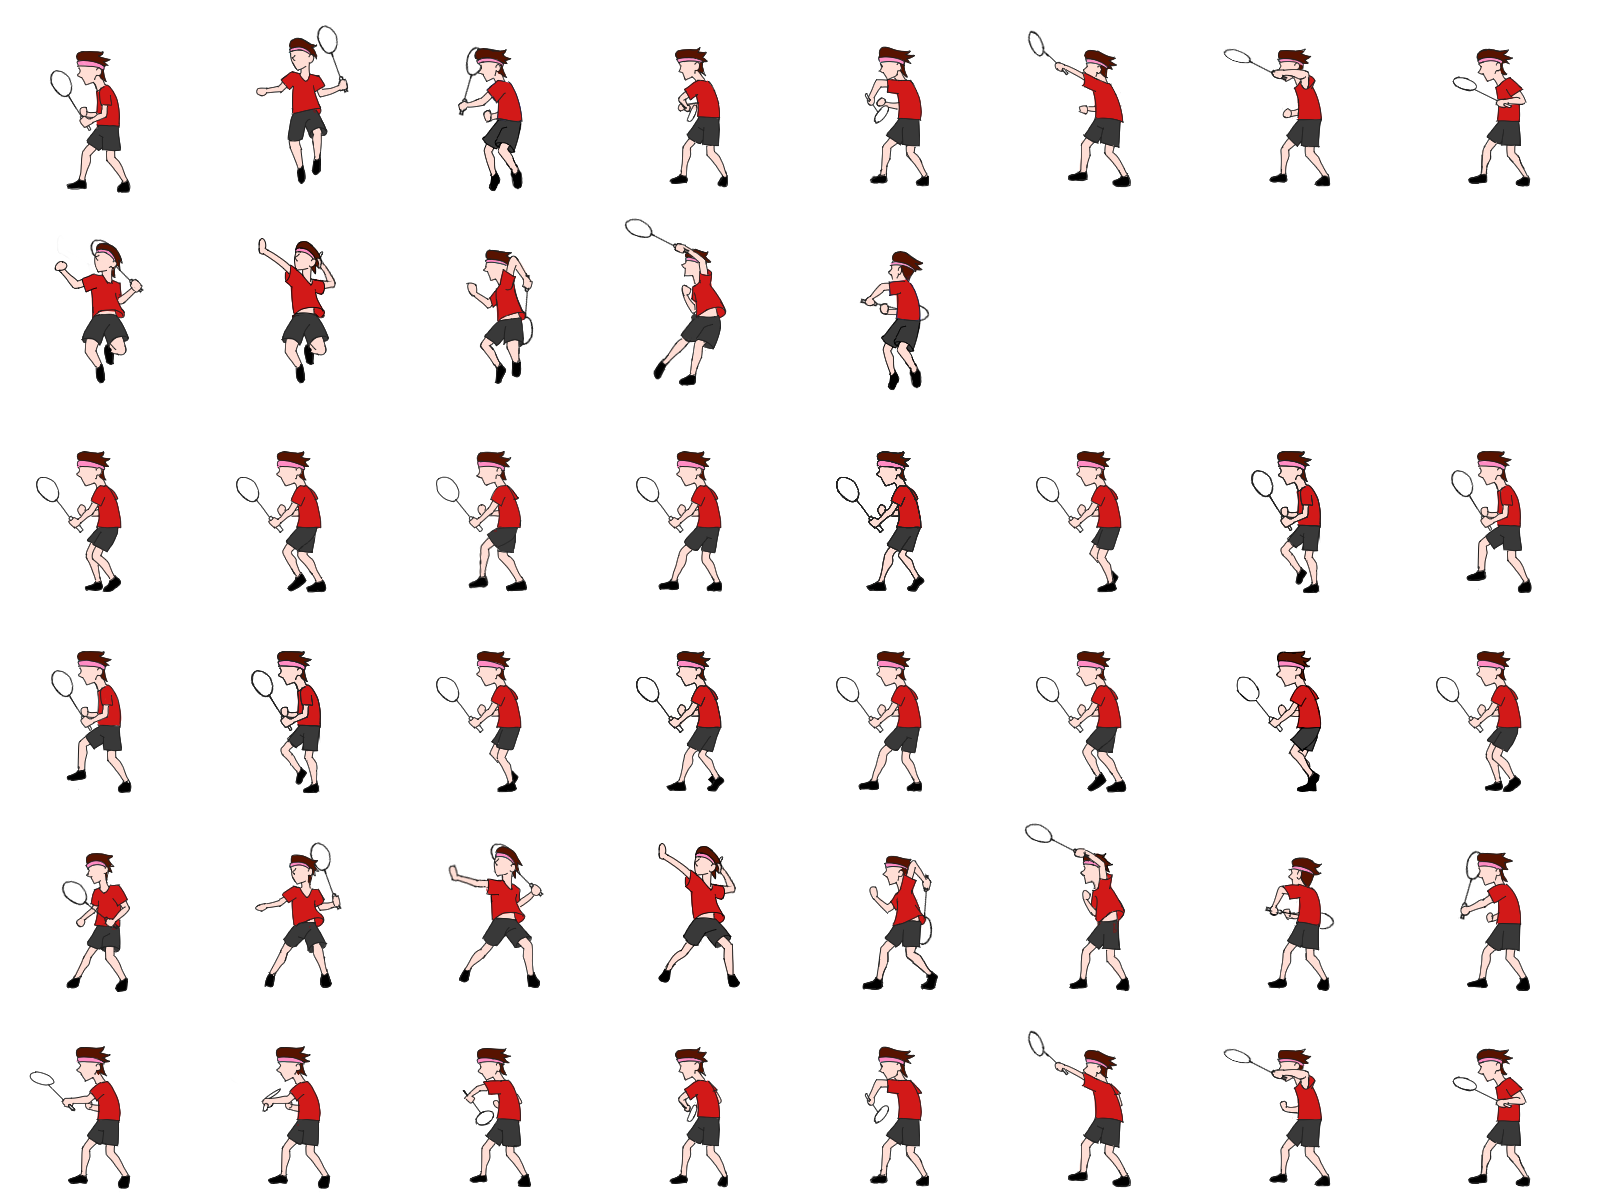
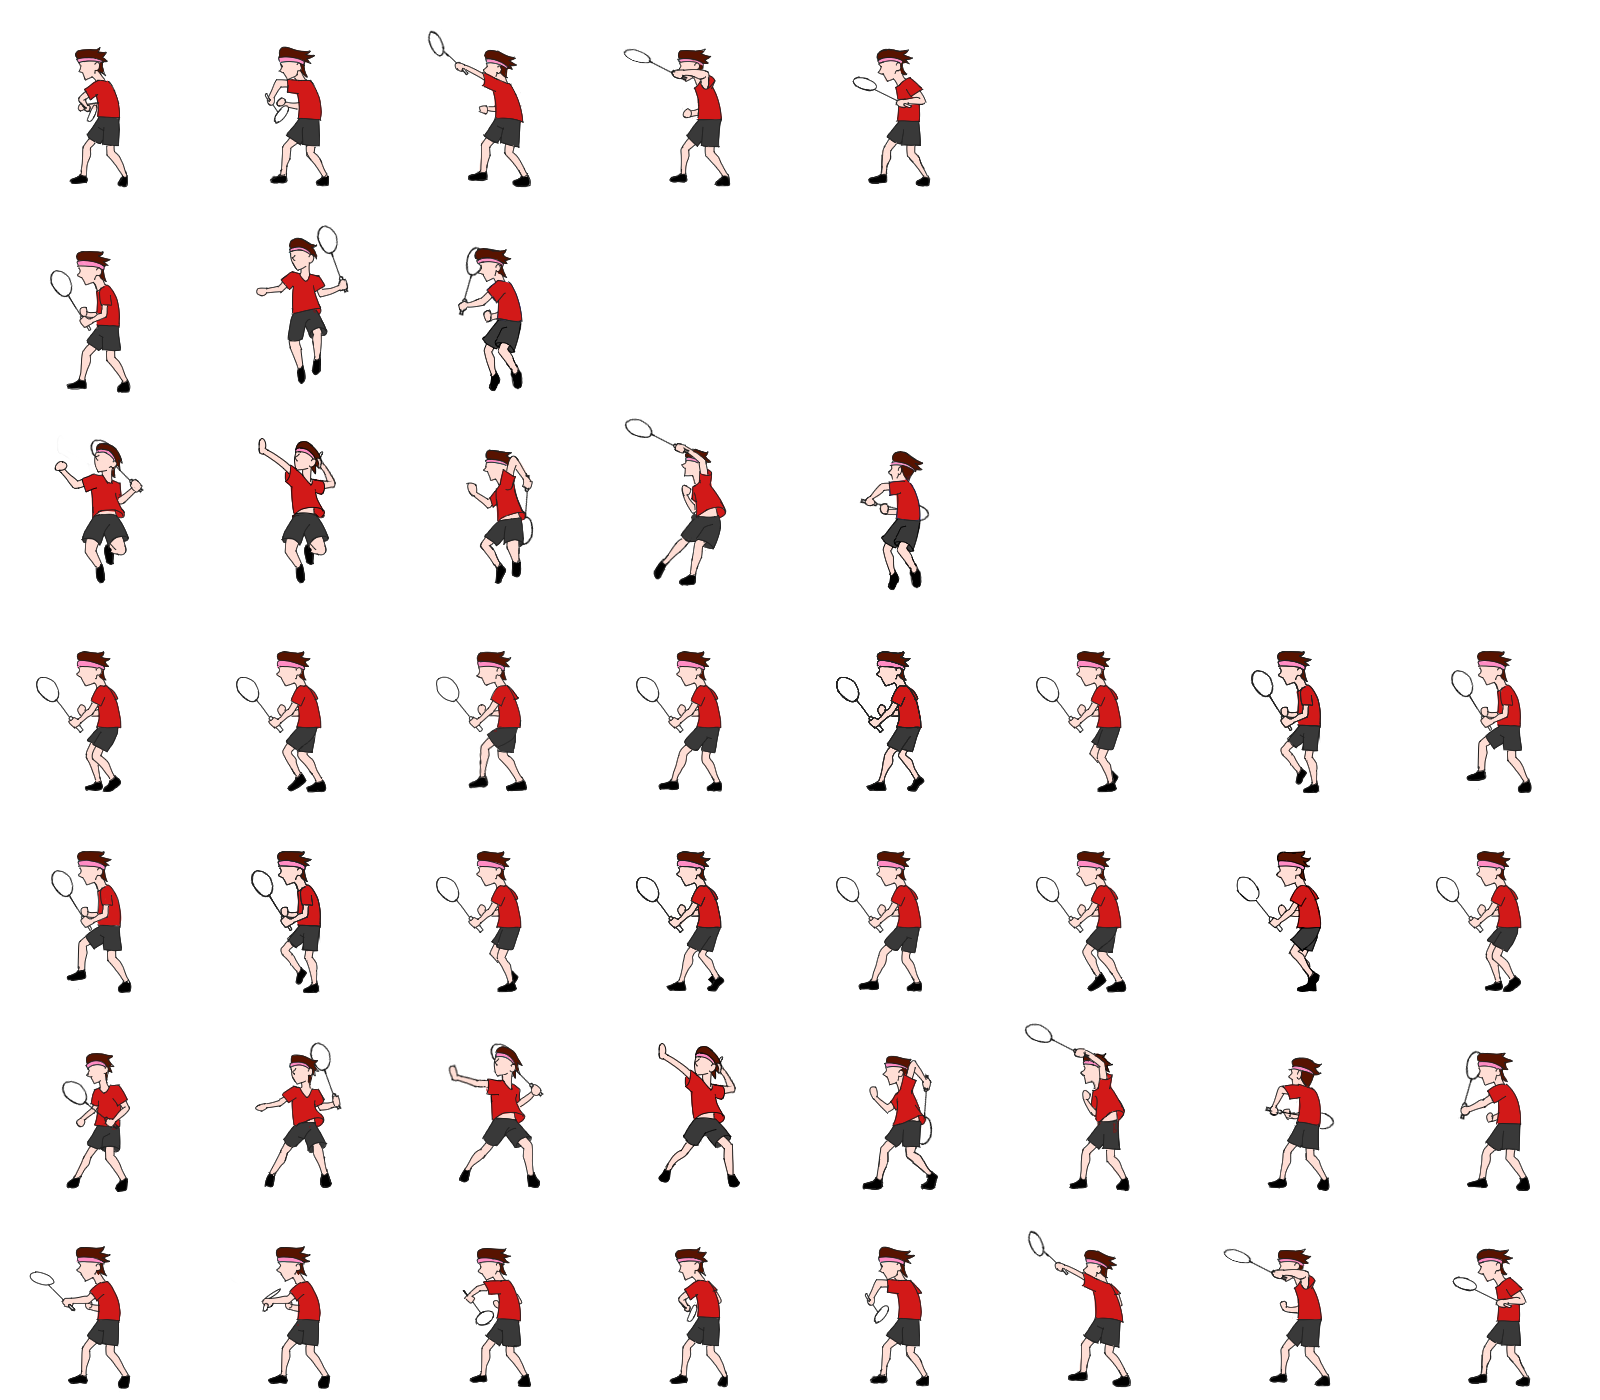
# 플레이어 프레임 재생 조정 o # 점프키 위쪽 방향키로 변경 o # 게임 방법 설명 추가  o

diff --git a/player.py b/player.py
@@ -35,11 +35,11 @@ def shift_down(e):
     return e[0] == 'INPUT' and e[1].type == SDL_KEYDOWN and e[1].key == SDLK_LSHIFT
 
 # 점프 이벤트
-def space_down(e):
-    return e[0] == 'INPUT' and e[1].type == SDL_KEYDOWN and e[1].key == SDLK_SPACE
+def up_down(e):
+    return e[0] == 'INPUT' and e[1].type == SDL_KEYDOWN and e[1].key == SDLK_UP
 
-def space_up(e):
-    return e[0] == 'INPUT' and e[1].type == SDL_KEYUP and e[1].key == SDLK_SPACE
+def up_up(e):
+    return e[0] == 'INPUT' and e[1].type == SDL_KEYUP and e[1].key == SDLK_UP
 
 # time over
 def time_out(e):
@@ -59,9 +59,10 @@ JUMP_SPEED_MPS = (JUMP_SPEED_MPM / 60.0)
 JUMP_SPEED_PPS = (JUMP_SPEED_MPS * PIXEL_PER_METER)
 
 # Player Action Speed
-TIME_PER_ACTION = 1.0
+TIME_PER_ACTION = 0.5
 ACTION_PER_TIME = 1.0 / TIME_PER_ACTION
 FRAMES_PER_ACTION = 8
+
 
 def can_hit(player):
     if play_mode.cock.x < 600:
@@ -76,9 +77,9 @@ def can_hit(player):
 class Wait:
     @staticmethod
     def enter(player, e):
-        if player.face_dir == -1: # 왼쪽
-            player.action = 5
-        elif player.face_dir == 1: # 오른쪽
+        if play_mode.who_sub == 'player':
+            player.action = 6
+        else:
             player.action = 5
         player.dir = 0
         player.frame = 0
@@ -107,7 +108,8 @@ class Run:
             player.dir, player.action, player.face_dir = 1, 3, 1
         elif left_down(e) or right_up(e):
             player.dir, player.action, player.face_dir = -1, 2, -1
-            pass
+        player.frame = 0
+        pass
 
     @staticmethod
     def exit(player, e):
@@ -134,13 +136,13 @@ class Swing_short:
     @staticmethod
     def enter(player, e):
         if play_mode.who_sub == 'player':
-            player.action = 5
+            player.action = 6
         else:
             if play_mode.cock.y < 120:
                 player.action = 0 # 언더 스윙
             else:
                 player.action = 1 # 하이 스윙
-
+        player.frame = 0
         player.motion_time = time.time()
 
         if can_hit(player):
@@ -151,20 +153,25 @@ class Swing_short:
 
     @staticmethod
     def exit(player, e):
+        if play_mode.who_sub == 'player':
+            play_mode.who_sub = None
         pass
 
     @staticmethod
     def do(player):
         if play_mode.who_sub == 'player':
-            player.frame = (player.frame + FRAMES_PER_ACTION * ACTION_PER_TIME * game_framework.frame_time) % 3 + 4
+            player.frame = (player.frame + FRAMES_PER_ACTION * ACTION_PER_TIME * game_framework.frame_time) % 5
         else:
             player.frame = (player.frame + FRAMES_PER_ACTION * ACTION_PER_TIME * game_framework.frame_time) % 8
         if can_hit(player):
-            play_mode.who_sub = None
             play_mode.cock.state = 'SHORT'
 
-        if time.time() - player.motion_time > 0.4:
-            player.state_machine.handle_event(('TIME_OUT', 0))
+        if play_mode.who_sub == 'player':
+            if time.time() - player.motion_time > 0.3:
+                player.state_machine.handle_event(('TIME_OUT', 0))
+        else:
+            if time.time() - player.motion_time > 0.5:
+                player.state_machine.handle_event(('TIME_OUT', 0))
 
         pass
 
@@ -180,12 +187,13 @@ class Swing_long:
     @staticmethod
     def enter(player, e):
         if play_mode.who_sub == 'player':
-            player.action = 5
+            player.action = 6
         else:
             if play_mode.cock.y < 90:
                 player.action = 0 # 언더 스윙
             else:
                 player.action = 1 # 하이 스윙
+        player.frame = 0
 
         if can_hit(player):
             play_mode.cock.current_time = time.time()
@@ -197,25 +205,26 @@ class Swing_long:
 
     @staticmethod
     def exit(player, e):
+        if play_mode.who_sub == 'player':
+            play_mode.who_sub = None
         pass
 
     @staticmethod
     def do(player):
         if play_mode.who_sub == 'player':
-            player.frame = (player.frame + FRAMES_PER_ACTION * ACTION_PER_TIME * game_framework.frame_time) % 3 + 4
+            player.frame = (player.frame + FRAMES_PER_ACTION * ACTION_PER_TIME * game_framework.frame_time) % 5
         else:
             player.frame = (player.frame + FRAMES_PER_ACTION * ACTION_PER_TIME * game_framework.frame_time) % 8
 
         if can_hit(player):
-            play_mode.who_sub = None
             play_mode.cock.state = 'LONG'
 
-        if time.time() - player.motion_time > 0.4:
-            player.state_machine.handle_event(('TIME_OUT', 0))
-
-
-        pass
-
+        if play_mode.who_sub == 'player':
+            if time.time() - player.motion_time > 0.3:
+                player.state_machine.handle_event(('TIME_OUT', 0))
+        else:
+            if time.time() - player.motion_time > 0.5:
+                player.state_machine.handle_event(('TIME_OUT', 0))
     @staticmethod
     def draw(player):
         player.image.clip_draw(int(player.frame) * 200, player.action * 200, 200, 200, player.x, player.y, 250, 250)
@@ -229,12 +238,12 @@ class Smash:
     def enter(player, e):
         player.action = 1 # 하이
         player.motion_time = time.time()
+        player.frame = 0
 
         if can_hit(player):
             play_mode.cock.current_time = time.time()
             play_mode.cock.sx, play_mode.cock.sy = player.x, player.y
             play_mode.cock.dir = 1
-
         pass
 
     @staticmethod
@@ -257,14 +266,13 @@ class Smash:
         player.image.clip_draw(int(player.frame) * 200, player.action * 200, 200, 200, player.x, player.y, 250, 250)
         pass
 
-    pass
-
 # 점프 클래스
 class Jump:
     @staticmethod
     def enter(player, e):
         player.motion_time = time.time()
         player.action = 5
+        player.frame = 0
         pass
 
     @staticmethod
@@ -285,14 +293,13 @@ class Jump:
         player.image.clip_draw(int(player.frame) * 200, player.action * 200, 200, 200, player.x, player.y, 250, 250)
         pass
 
-    pass
-
 # 착지 클래스
 class Landing:
     @staticmethod
     def enter(player, e):
         player.motion_time = time.time()
         player.action = 5
+        player.frame = 0
         pass
 
     @staticmethod
@@ -321,6 +328,7 @@ class Jump_smash:
         player.action = 4  # 점프 스매시
         player.jump_time = time.time() - player.motion_time
         player.motion_time = time.time()
+        player.frame = 0
 
         if can_hit(player):
             play_mode.cock.current_time = time.time()
@@ -338,7 +346,7 @@ class Jump_smash:
         if can_hit(player):
             play_mode.cock.state = 'JUMP_SMASH'
 
-        if time.time() - player.motion_time > 0.2:
+        if time.time() - player.motion_time > 0.3:
             player.state_machine.handle_event(('TIME_OUT', 0))
 
     @staticmethod
@@ -352,7 +360,7 @@ class Jump_smash:
 class Serve:
     @staticmethod
     def enter(player, e):
-        player.action = 5
+        player.action = 6
         player.dir = 0
         player.frame = 0
         pass
@@ -363,7 +371,7 @@ class Serve:
 
     @staticmethod
     def do(player):
-        player.frame = (player.frame + FRAMES_PER_ACTION * ACTION_PER_TIME * game_framework.frame_time) % 1 + 3
+        player.frame = (player.frame + FRAMES_PER_ACTION * ACTION_PER_TIME * game_framework.frame_time) % 1
         pass
 
     @staticmethod
@@ -379,8 +387,8 @@ class StateMachine:
         self.cur_state = Serve
         self.transition = {
             Serve : {z_down: Swing_short, x_down: Swing_long},
-            Wait : {right_down: Run, left_down: Run, z_down: Swing_short, x_down: Swing_long, shift_down: Smash, space_down: Jump},
-            Run : {right_down: Wait, right_up: Wait, left_down: Wait, left_up: Wait, z_down: Swing_short, x_down: Swing_long, shift_down: Smash, space_down: Jump},
+            Wait : {right_down: Run, left_down: Run, z_down: Swing_short, x_down: Swing_long, shift_down: Smash, up_down: Jump},
+            Run : {right_down: Wait, right_up: Wait, left_down: Wait, left_up: Wait, z_down: Swing_short, x_down: Swing_long, shift_down: Smash, up_down: Jump},
             Jump : {shift_down: Jump_smash, time_out: Landing},
             Landing : {time_out: Wait},
             Swing_short : {time_out: Wait},

diff --git a/cock.py b/cock.py
@@ -216,19 +216,20 @@ class Cock:
 
 
     def update(self):
-        match self.state:
-            case 'NONE':
-                wait(self)
-            case 'LONG':
-                long_shot(self)
-            case 'SHORT':
-                short_shot(self)
-            case 'SMASH':
-                smash(self)
-            case 'JUMP_SMASH':
-                jump_smash(self)
+        # match self.state:
+        #     case 'NONE':
+        #         wait(self)
+        #     case 'LONG':
+        #         long_shot(self)
+        #     case 'SHORT':
+        #         short_shot(self)
+        #     case 'SMASH':
+        #         smash(self)
+        #     case 'JUMP_SMASH':
+        #         jump_smash(self)
 
         self.x = clamp(10, self.x, 1100)
+        pass
 
     def get_bb(self):
         return self.x-10, self.y-10, self.x+10, self.y+10

diff --git a/main.py b/main.py
@@ -9,8 +9,6 @@ close_canvas()
 
 # 공 구속 조정
 # 상대 모션 재생 안됨 (이거 어케함 ㄹㅇ)
-# 플레이어 프레임 재생 조정
-# 판정 범위 조정 (하이/언더 구별)
-# 점프키 위쪽 방향키로 변경
-# 게임 방법 설명 추가 (게임방식, 듀스, 점프 스매시 주의사항, press space or esc)
+# 판정 범위 조정 (하이/언더 구별) X 너무 어려워짐
+
 # 일시정지도 추가할까

diff --git a/next_mode.py b/next_mode.py
@@ -81,7 +81,7 @@ def handle_events():
     events = get_events()
 
     if play_mode.who_win == None:
-        if state == 'can':
+        if state == 'cannot':
             game_framework.pop_mode()
     elif play_mode.who_win != None:
         for event in events:
